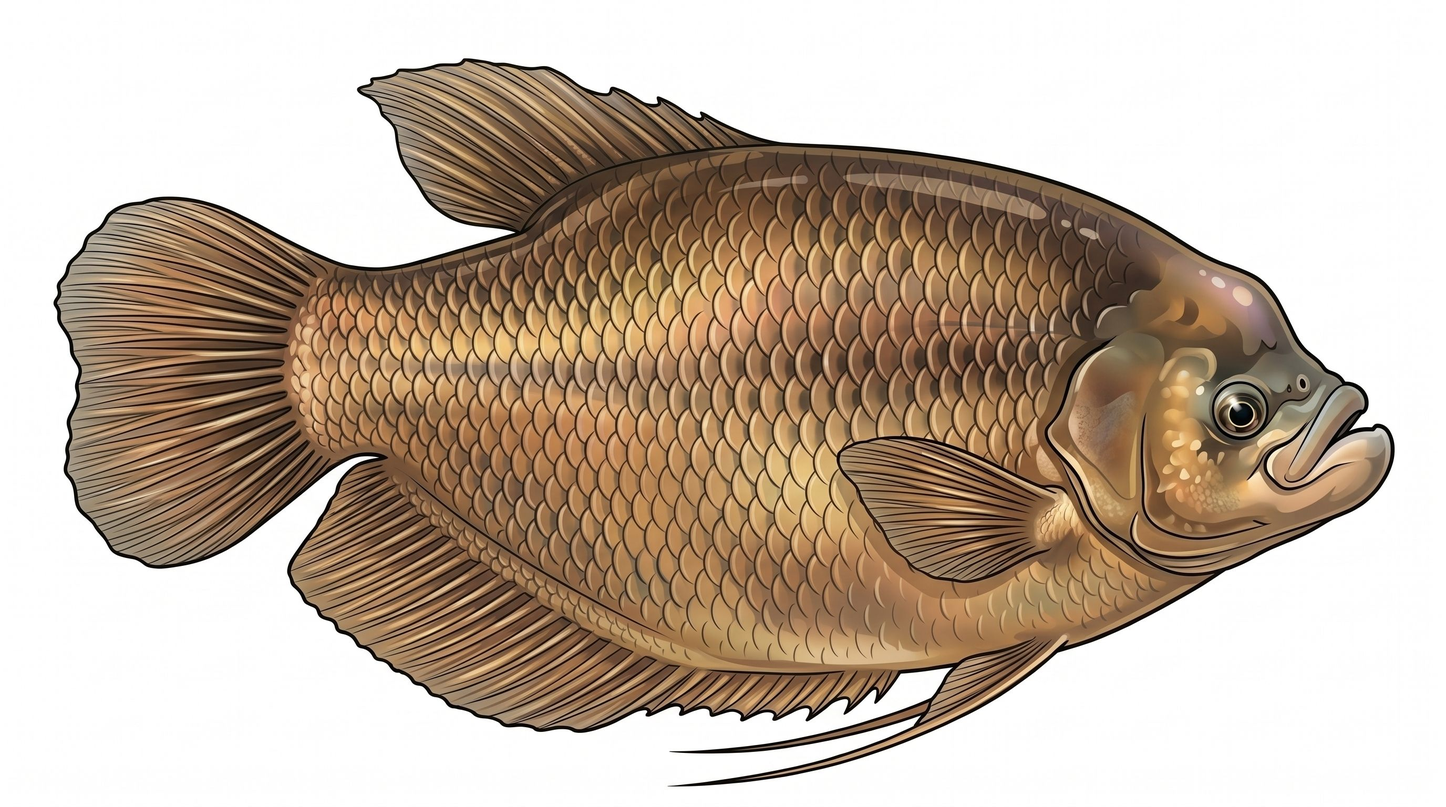
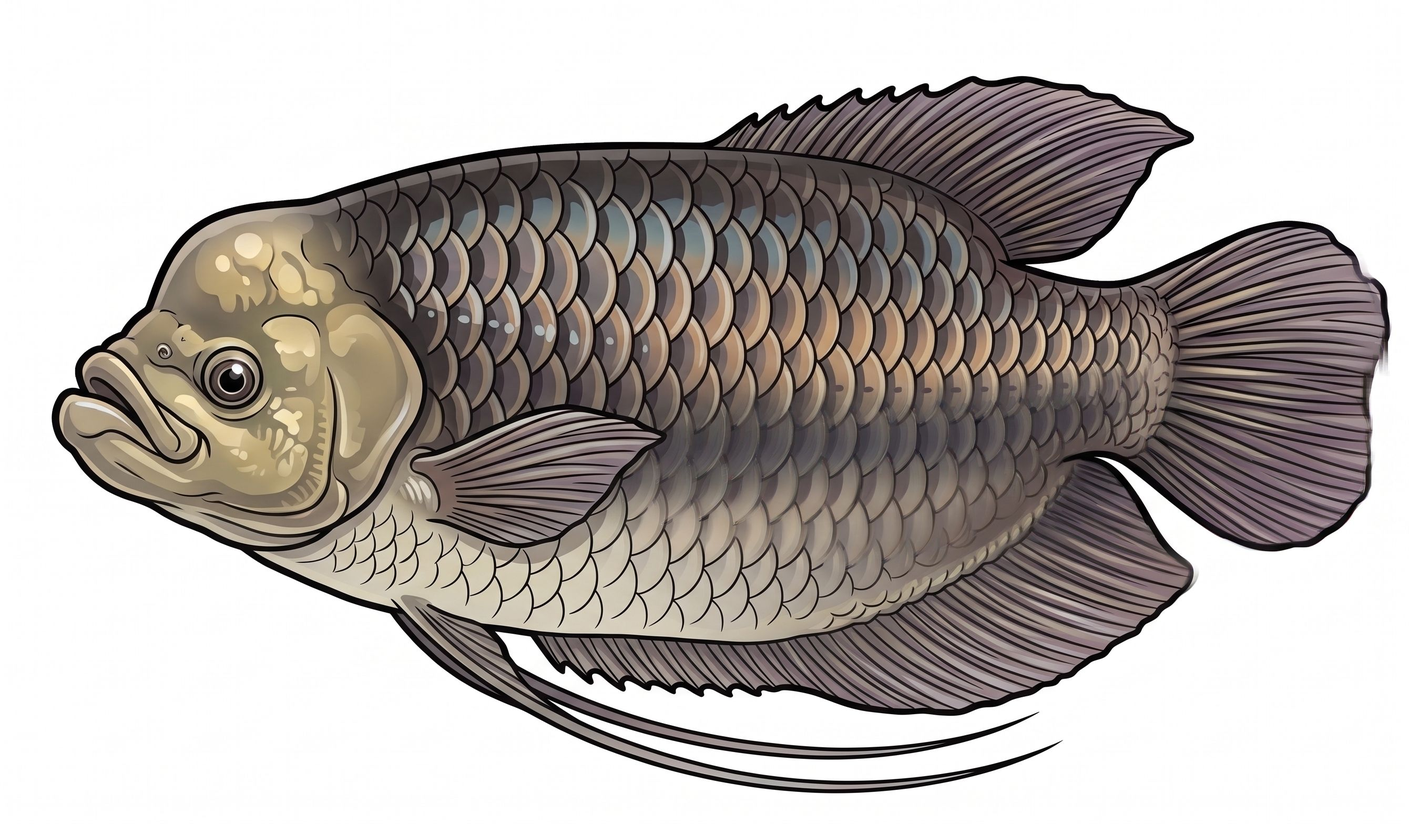
fix: giantgourami new sprite - fix facesLeft, tailRatio, replace gold with honey variant

diff --git a/media/aquarium.html b/media/aquarium.html
@@ -41,7 +41,7 @@
         <div class="spawn-row"><span class="spawn-name">Flowerhorn</span><div class="spawn-variants"><button data-species="flowerhorn" data-variant="red_dragon">Red Dragon</button><button data-species="flowerhorn" data-variant="golden">Golden</button><button data-species="flowerhorn" data-variant="kamfa">Kamfa</button><button data-species="flowerhorn" data-variant="blue">Blue</button></div></div>
         <div class="spawn-row"><span class="spawn-name">Knifefish</span><div class="spawn-variants"><button data-species="knifefish" data-variant="natural">Natural</button><button data-species="knifefish" data-variant="ghost">Ghost</button><button data-species="knifefish" data-variant="dark">Dark</button></div></div>
         <div class="spawn-row"><span class="spawn-name">Silver Dollar</span><div class="spawn-variants"><button data-species="silverdollar" data-variant="silver">Silver</button><button data-species="silverdollar" data-variant="spotted">Spotted</button><button data-species="silverdollar" data-variant="red_hook">Red Hook</button></div></div>
-        <div class="spawn-row"><span class="spawn-name">Giant Gourami</span><div class="spawn-variants"><button data-species="giantgourami" data-variant="natural">Natural</button><button data-species="giantgourami" data-variant="gold">Gold</button><button data-species="giantgourami" data-variant="albino">Albino</button></div></div>
+        <div class="spawn-row"><span class="spawn-name">Giant Gourami</span><div class="spawn-variants"><button data-species="giantgourami" data-variant="natural">Natural</button><button data-species="giantgourami" data-variant="honey">Honey</button><button data-species="giantgourami" data-variant="albino">Albino</button></div></div>
         <div class="spawn-row"><span class="spawn-name">Black Moor</span><div class="spawn-variants"><button data-species="blackmoor" data-variant="natural">Natural</button><button data-species="blackmoor" data-variant="telescope">Telescope</button><button data-species="blackmoor" data-variant="velvet">Velvet</button></div></div>
         <div class="spawn-row"><span class="spawn-name">Lionhead</span><div class="spawn-variants"><button data-species="lionhead" data-variant="red_white">Red White</button><button data-species="lionhead" data-variant="orange">Orange</button><button data-species="lionhead" data-variant="calico">Calico</button></div></div>
         <div class="spawn-row"><span class="spawn-name">Shubunkin</span><div class="spawn-variants"><button data-species="shubunkin" data-variant="natural">Natural</button><button data-species="shubunkin" data-variant="blue">Blue</button><button data-species="shubunkin" data-variant="orange">Orange</button></div></div>

diff --git a/media/aquarium.js b/media/aquarium.js
@@ -144,7 +144,7 @@
     peacockbass:  { sheet: 'peacockbass',  fx: 0,    fy: 0, fw: 1,    fh: 1, targetH: 82,  facesLeft: true,  tailRatio: 0.22 },
     knifefish:    { sheet: 'knifefish',    fx: 0,    fy: 0, fw: 1,    fh: 1, targetH: 84,  facesLeft: false, tailRatio: 0.28 },
     silverdollar: { sheet: 'silverdollar', fx: 0,    fy: 0, fw: 1,    fh: 1, targetH: 72,  facesLeft: false, tailRatio: 0.20 },
-    giantgourami: { sheet: 'giantgourami', fx: 0,    fy: 0, fw: 1,    fh: 1, targetH: 88,  facesLeft: false, tailRatio: 0.21 },
+    giantgourami: { sheet: 'giantgourami', fx: 0,    fy: 0, fw: 1,    fh: 1, targetH: 88,  facesLeft: true,  tailRatio: 0.25 },
     blackmoor:    { sheet: 'blackmoor',    fx: 0,    fy: 0, fw: 1,    fh: 1, targetH: 44,  facesLeft: true,  tailRatio: 0.25 },
     lionhead:     { sheet: 'lionhead',     fx: 0,    fy: 0, fw: 1,    fh: 1, targetH: 46,  facesLeft: false, tailRatio: 0.28 },
     shubunkin:    { sheet: 'shubukin',     fx: 0,    fy: 0, fw: 1,    fh: 1, targetH: 42,  facesLeft: false, tailRatio: 0.30 },
@@ -186,8 +186,8 @@
                    { id: 'spotted',   filter: 'contrast(1.3) brightness(0.92)' },
                    { id: 'red_hook',  filter: 'hue-rotate(-15deg) saturate(1.6) brightness(1.0)' }],
     giantgourami: [{ id: 'natural',   filter: '' },
-                   { id: 'gold',      filter: 'sepia(0.7) saturate(2.8) hue-rotate(18deg) brightness(1.1)' },
-                   { id: 'albino',    filter: 'sepia(0.15) brightness(1.65) saturate(0.35)' }],
+                   { id: 'honey',     filter: 'sepia(0.28) saturate(1.4) hue-rotate(5deg) brightness(1.18)' },
+                   { id: 'albino',    filter: 'sepia(0.08) brightness(1.5) saturate(0.22)' }],
     blackmoor:    [{ id: 'natural',   filter: '' },
                    { id: 'telescope', filter: 'brightness(0.80) contrast(1.2)' },
                    { id: 'velvet',    filter: 'hue-rotate(200deg) saturate(1.3) brightness(0.70)' }],

diff --git a/src/extension.ts b/src/extension.ts
@@ -28,7 +28,7 @@ const SPECIES_COLOR_VARIANTS_EXT: Record<string, string[]> = {
   peacockbass:  ['natural', 'speckled', 'butterfly'],
   knifefish:    ['natural', 'ghost', 'dark'],
   silverdollar: ['silver', 'spotted', 'red_hook'],
-  giantgourami: ['natural', 'gold', 'albino'],
+  giantgourami: ['natural', 'honey', 'albino'],
   blackmoor:    ['natural', 'telescope', 'velvet'],
   lionhead:     ['red_white', 'orange', 'calico'],
   shubunkin:    ['natural', 'blue', 'orange'],
